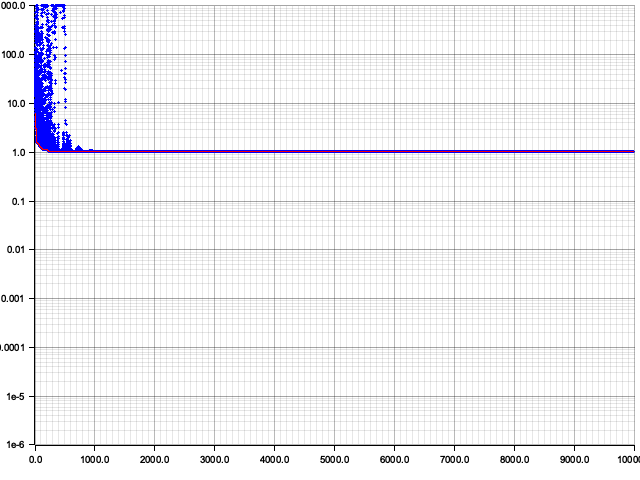
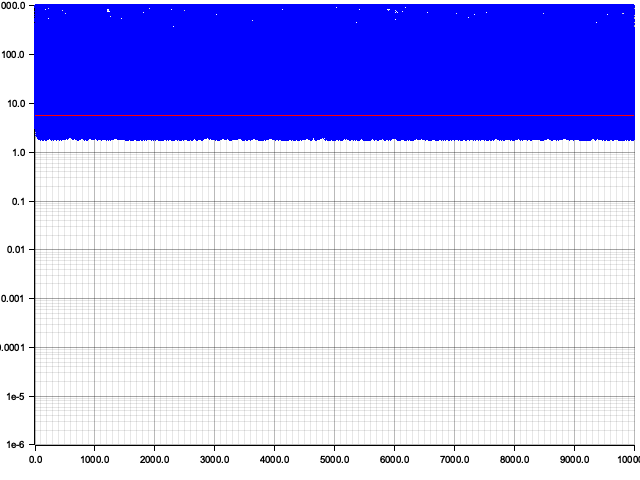
refactor

Changed region(s): [[0.0312, 0.0, 1.0, 0.3438]]

diff --git a/src/pso.rs b/src/pso.rs
@@ -10,7 +10,8 @@ use std::fmt;
 pub struct PSO<T: ParticleTrait> {
   f: fn(&DVector<f64>) -> f64,
   particles: Vec<T>,
-  global_best_pos: DVector<f64>,
+  global_best_pos: Option<DVector<f64>>,
+  data: Vec<(f64, Vec<f64>)>,
 }
 
 impl<T: ParticleTrait> PSO<T> {
@@ -22,18 +23,29 @@ impl<T: ParticleTrait> PSO<T> {
       particles.push(ParticleTrait::new(&f, dimensions));
     }
 
-    let mut global_best_pos = DVector::from_element(dimensions, -1.);
-    for particle in &mut particles {
-      // if particle.pos_eval() < &global_best_pos_eval {
-      if f(&particle.pos()) < f(&global_best_pos) {
-        global_best_pos = particle.pos().clone();
-      }
-    }
-
-    PSO {
+    let mut pso = PSO {
       f,
       particles,
-      global_best_pos,
+      global_best_pos: None,
+      data: Vec::new(),
+    };
+    pso.init(dimensions);
+    pso
+  }
+
+  fn global_best_pos(&self) -> DVector<f64> {
+    self.global_best_pos.clone().unwrap()
+  }
+
+  pub fn init(&mut self, dimensions: usize) {
+    for particle in &mut self.particles {
+      particle.init(&self.f, dimensions);
+    }
+
+    for particle in &self.particles {
+      if self.global_best_pos.is_none() || (self.f)(&particle.pos()) < (self.f)(&self.global_best_pos()) {
+        self.global_best_pos = Some(particle.pos().clone());
+      }
     }
   }
 
@@ -47,26 +59,26 @@ impl<T: ParticleTrait> PSO<T> {
     );
 
     // Initialize data storing variable.
-    let mut data: Vec<(f64, Vec<f64>)> = Vec::new();
 
     for _ in 0..iterations {
       // Variable to store data for this iteration.
       let mut iteration_data: Vec<f64> = Vec::new();
 
-      for particle in self.particles.iter_mut() {
-        particle.update_vel(&self.global_best_pos);
+      let global_best_pos = self.global_best_pos();
+      let mut new_global_best_pos = self.global_best_pos().clone();
+      for particle in &mut self.particles {
+        particle.update_vel(&global_best_pos);
         if particle.update_pos(&self.f) {
-          // `update_pos()` returns `true` if its personal best was updated,
-          // in which case the global best should be examined as well.
-          if (self.f)(&particle.best_pos()) < (self.f)(&self.global_best_pos) {
-            self.global_best_pos = particle.best_pos().clone();
+          if (self.f)(&particle.best_pos()) < (self.f)(&new_global_best_pos) {
+            new_global_best_pos = particle.best_pos().clone();
           }
         }
         iteration_data.push((self.f)(&particle.pos()).clone());
       }
+      self.global_best_pos = Some(new_global_best_pos);
 
       // Save the data for current iteration.
-      data.push(((self.f)(&self.global_best_pos), iteration_data));
+      self.data.push(((self.f)(&self.global_best_pos()), iteration_data));
 
       // Increment the progress bar.
       progress.inc(1);
@@ -76,9 +88,9 @@ impl<T: ParticleTrait> PSO<T> {
     progress.finish();
 
     // Draw and save the graph for the run.
-    let _ = grapher::create_progress_graph(&data);
+    let _ = grapher::create_progress_graph(&self.data);
 
-    (self.f)(&self.global_best_pos)
+    (self.f)(&self.global_best_pos())
   }
 }
 
@@ -92,8 +104,8 @@ impl<T: ParticleTrait + std::fmt::Display> fmt::Display for PSO<T> {
     }
     result.push_str(&format!(
       "global best pos: [{}] ({:.3})",
-      utils::format_dvector(&self.global_best_pos),
-      (self.f)(&self.global_best_pos),
+      utils::format_dvector(&self.global_best_pos()),
+      (self.f)(&self.global_best_pos()),
       // self.global_best_pos_eval,
     ));
     write!(f, "{}", result)

diff --git a/src/particle.rs b/src/particle.rs
@@ -11,20 +11,30 @@ pub trait ParticleTrait {
   where
     Self: Sized;
 
-  fn pos(&self) -> &DVector<f64>;
+  fn init(&mut self, f: &fn(&DVector<f64>) -> f64, dimensions: usize) {
+    let pos = utils::random_init_pos(dimensions);
+    self.new_pos(pos, f);
+    self.set_vel(utils::random_init_vel(dimensions));
+  }
 
+  fn pos(&self) -> &DVector<f64>;
   fn set_pos(&mut self, pos: DVector<f64>);
+  fn new_pos(&mut self, pos: DVector<f64>, f: &fn(&DVector<f64>) -> f64) {
+    self.set_pos(pos);
+    self.eval(f);
+  }
 
   fn update_pos(&mut self, f: &fn(&DVector<f64>) -> f64) -> bool {
     // This function returns whether the personal best was updated.
-    self.set_pos(self.pos() + self.vel());
+    self.new_pos(self.pos() + self.vel(), f);
     self.eval(f)
   }
 
-  fn best_pos(&self) -> &DVector<f64>;
+  fn best_pos(&self) -> DVector<f64>;
+  fn option_best_pos(&self) -> &Option<DVector<f64>>;
+  fn set_best_pos(&mut self, pos: DVector<f64>);
 
   fn vel(&self) -> &DVector<f64>;
-
   fn set_vel(&mut self, vel: DVector<f64>);
 
   fn update_vel(&mut self, global_best_pos: &DVector<f64>) {
@@ -39,52 +49,10 @@ pub trait ParticleTrait {
     );
   }
 
-  fn eval(&mut self, f: &fn(&DVector<f64>) -> f64) -> bool;
-}
-
-pub struct Particle {
-  pos: DVector<f64>,
-  vel: DVector<f64>,
-  best_pos: DVector<f64>,
-}
-
-impl ParticleTrait for Particle {
-  fn new(f: &fn(&DVector<f64>) -> f64, dimensions: usize) -> Particle {
-    let pos = utils::random_init_pos(dimensions);
-    let mut particle = Particle {
-      pos: pos.clone(),
-      vel: utils::random_init_vel(dimensions),
-      best_pos: pos,
-    };
-
-    particle.eval(f);
-    particle
-  }
-
-  fn pos(&self) -> &DVector<f64> {
-    &self.pos
-  }
-
-  fn set_pos(&mut self, pos: DVector<f64>) {
-    self.pos = pos;
-  }
-
-  fn best_pos(&self) -> &DVector<f64> {
-    &self.best_pos
-  }
-
-  fn vel(&self) -> &DVector<f64> {
-    &self.vel
-  }
-
-  fn set_vel(&mut self, vel: DVector<f64>) {
-    self.vel = vel;
-  }
-
   fn eval(&mut self, f: &fn(&DVector<f64>) -> f64) -> bool {
     // This function returns whether the personal best was updated.
-    if f(&self.pos()) < f(&self.best_pos()) {
-      self.best_pos = self.pos.clone();
+    if self.option_best_pos().is_none() || f(&self.pos()) < f(&self.best_pos()) {
+      self.set_best_pos(self.pos().clone());
       return true;
     }
     false

diff --git a/src/defaultparticle.rs b/src/defaultparticle.rs
@@ -5,25 +5,15 @@ use crate::particle;
 use nalgebra::DVector;
 use particle::ParticleTrait;
 
-use crate::rand::Rng;
-
-pub struct AWParticle {
+pub struct DefaultParticle {
   pos: DVector<f64>,
   vel: DVector<f64>,
   best_pos: Option<DVector<f64>>,
 }
 
-fn sigmoid(x: f64, m: f64) -> f64 {
-  let a = 0.000035 * m;
-  let b = 0.5;
-  let c = 0.;
-  let d = 1.5;
-  b / (1.0 + (-a * (x - c)).exp()) + d
-}
-
-impl ParticleTrait for AWParticle {
-  fn new(f: &fn(&DVector<f64>) -> f64, dimensions: usize) -> AWParticle {
-    let mut particle = AWParticle {
+impl ParticleTrait for DefaultParticle {
+  fn new(f: &fn(&DVector<f64>) -> f64, dimensions: usize) -> DefaultParticle {
+    let mut particle = DefaultParticle {
       pos: DVector::from_element(dimensions, 0.),
       vel: DVector::from_element(dimensions, 0.),
       best_pos: None,
@@ -58,17 +48,5 @@ impl ParticleTrait for AWParticle {
 
   fn set_vel(&mut self, vel: DVector<f64>) {
     self.vel = vel;
-  }
-
-  fn update_vel(&mut self, global_best_pos: &DVector<f64>) {
-    let w = 0.8;
-    let phi_p = sigmoid((self.best_pos() - self.pos()).norm(), 2.);
-    let phi_g = sigmoid((global_best_pos - self.pos()).norm(), 2.);
-    let mut rng = rand::thread_rng();
-    let r_p: f64 = rng.gen_range(0.0..1.0);
-    let r_g: f64 = rng.gen_range(0.0..1.0);
-    self.set_vel(
-      w * self.vel() + phi_p * r_p * (self.best_pos() - self.pos()) + phi_g * r_g * (global_best_pos - self.pos()),
-    );
   }
 }

diff --git a/src/main.rs b/src/main.rs
@@ -3,23 +3,24 @@ extern crate rand;
 
 use nalgebra::DVector;
 mod awparticle;
+mod defaultparticle;
 mod grapher;
 mod particle;
 mod pso;
 mod utils;
 
 use awparticle::AWParticle;
-use particle::Particle;
+use defaultparticle::DefaultParticle;
 use pso::PSO;
 
 fn main() {
   let dimensions = 30;
-  let particle_count = 10;
+  let particle_count = 100;
   fn f(x: &DVector<f64>) -> f64 {
     x.iter().map(|&x| x * x).sum()
   }
 
-  let mut pso: PSO<Particle> = pso::PSO::new(f, dimensions, particle_count);
+  let mut pso: PSO<DefaultParticle> = pso::PSO::new(f, dimensions, particle_count);
   println!("PSO: {}", pso.run(10000));
 
   let mut awpso: PSO<AWParticle> = pso::PSO::new(f, dimensions, particle_count);
